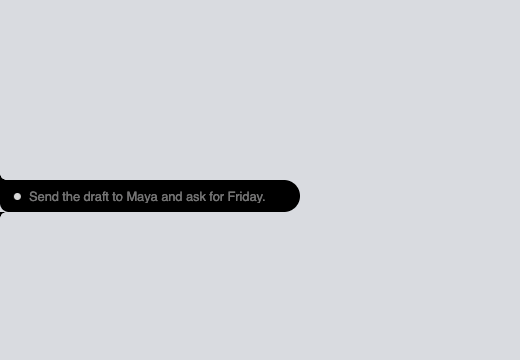
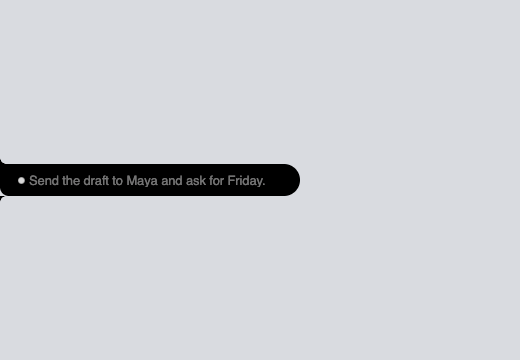
feat(bar): a side notch grows out of its edge, centred on its tab

Changed region(s): [[0.0, 0.4278, 0.5846, 0.6111]]

diff --git a/src/lib/steadyFrame.ts b/src/lib/steadyFrame.ts
@@ -83,6 +83,12 @@ export interface SteadyLayout {
   anchorX: WindowAnchorX;
   /** Content grows up from the anchor's bottom edge instead of down from its top. */
   growUp: boolean;
+  /**
+   * Content is centred on the anchor's middle row and grows both ways. Only
+   * the Notch on a side edge: it grows straight out of the edge, centred on
+   * its tab, the way a panel opened from that edge would. `growUp` is false.
+   */
+  centerY: boolean;
 }
 
 /**
@@ -110,7 +116,10 @@ export function steadyLayout(
 ): SteadyLayout {
   const slot = { fx: well.fx, fy: well.fy };
   const anchorX = dockAnchorX(slot);
-  const growUp = dockGrowsUp(slot);
+  // A flush well on a side edge (not a corner, not the top or bottom) grows
+  // out of the edge centred on itself; everything else keeps its row.
+  const centerY = spec.wells === "notch" && well.fy > 0 && well.fy < 1;
+  const growUp = !centerY && dockGrowsUp(slot);
   // The well is sized for the resting footprint. Every grid well is
   // `spec.rest`; the Notch's differ per well (a wide notch, small corners).
   const rw = well.width || spec.rest.width;
@@ -119,11 +128,11 @@ export function steadyLayout(
   // otherwise be uneven: a centre column then sits on a whole pixel, and so
   // does every edge that grows symmetrically around it.
   const W = spec.max.width + ((spec.max.width - rw) % 2);
-  const H = spec.max.height;
+  const H = spec.max.height + (centerY ? (spec.max.height - rh) % 2 : 0);
 
   // Ideal offset of the resting footprint inside the window.
   const idealX = anchorX === "start" ? 0 : anchorX === "end" ? W - rw : Math.floor((W - rw) / 2);
-  const idealY = growUp ? H - rh : 0;
+  const idealY = centerY ? Math.floor((H - rh) / 2) : growUp ? H - rh : 0;
 
   // The window's ideal top-left, then clamped inside the inset area: the
   // display's real work area, so the top edge sits under this display's own
@@ -152,6 +161,7 @@ export function steadyLayout(
     anchor: { x: ax, y: ay, width: rw, height: rh },
     anchorX,
     growUp,
+    centerY,
   };
 }
 
@@ -215,14 +225,19 @@ export function contentRect(layout: SteadyLayout, size: Size): Rect {
       : layout.anchorX === "end"
         ? anchor.x + anchor.width - size.width
         : anchor.x + anchor.width / 2 - size.width / 2;
-  const y = layout.growUp ? anchor.y + anchor.height - size.height : anchor.y;
+  const y = layout.centerY
+    ? anchor.y + anchor.height / 2 - size.height / 2
+    : layout.growUp
+      ? anchor.y + anchor.height - size.height
+      : anchor.y;
   return { x, y, width: size.width, height: size.height };
 }
 
 /**
  * CSS placement for the content block: the docked edges as absolute offsets,
  * so the browser holds those edges still while width and height animate.
- * A centred column is pinned at its centre line with a -50% translate.
+ * A centred column is pinned at its centre line with a -50% translate, and a
+ * centred row (`centerY`) the same way vertically.
  */
 export function contentPlacement(layout: SteadyLayout): {
   left?: number;
@@ -230,6 +245,7 @@ export function contentPlacement(layout: SteadyLayout): {
   top?: number;
   bottom?: number;
   translateX: boolean;
+  translateY: boolean;
 } {
   const { anchor, size } = layout;
   const horizontal =
@@ -238,9 +254,11 @@ export function contentPlacement(layout: SteadyLayout): {
       : layout.anchorX === "end"
         ? { right: size.width - (anchor.x + anchor.width), translateX: false }
         : { left: anchor.x + anchor.width / 2, translateX: true };
-  const vertical = layout.growUp
-    ? { bottom: size.height - (anchor.y + anchor.height) }
-    : { top: anchor.y };
+  const vertical = layout.centerY
+    ? { top: anchor.y + anchor.height / 2, translateY: true }
+    : layout.growUp
+      ? { bottom: size.height - (anchor.y + anchor.height), translateY: false }
+      : { top: anchor.y, translateY: false };
   return { ...horizontal, ...vertical };
 }
 
@@ -250,6 +268,10 @@ export function contentPlacement(layout: SteadyLayout): {
  * pane) to this, so a window clamped by a small display never clips.
  */
 export function roomForContent(layout: SteadyLayout): number {
+  if (layout.centerY) {
+    const mid = layout.anchor.y + layout.anchor.height / 2;
+    return 2 * Math.min(mid, layout.size.height - mid);
+  }
   return layout.growUp
     ? layout.anchor.y + layout.anchor.height
     : layout.size.height - layout.anchor.y;
@@ -274,7 +296,7 @@ export function dockedEdges(layout: SteadyLayout, size: Size): { x: number; y: n
   const r = toScreen(layout, contentRect(layout, size));
   const x =
     layout.anchorX === "start" ? r.x : layout.anchorX === "end" ? r.x + r.width : r.x + r.width / 2;
-  const y = layout.growUp ? r.y + r.height : r.y;
+  const y = layout.centerY ? r.y + r.height / 2 : layout.growUp ? r.y + r.height : r.y;
   return { x, y };
 }
 
@@ -297,7 +319,8 @@ export function sameLayout(a: SteadyLayout | null, b: SteadyLayout | null): bool
     a.anchor.x === b.anchor.x &&
     a.anchor.y === b.anchor.y &&
     a.anchorX === b.anchorX &&
-    a.growUp === b.growUp
+    a.growUp === b.growUp &&
+    a.centerY === b.centerY
   );
 }
 
@@ -309,7 +332,8 @@ export function sameDrawing(a: SteadyLayout, b: SteadyLayout): boolean {
     a.anchor.x === b.anchor.x &&
     a.anchor.y === b.anchor.y &&
     a.anchorX === b.anchorX &&
-    a.growUp === b.growUp
+    a.growUp === b.growUp &&
+    a.centerY === b.centerY
   );
 }
 

diff --git a/src/components/bar/island/IslandBar.tsx b/src/components/bar/island/IslandBar.tsx
@@ -924,11 +924,28 @@ function NotchStage({
   const { layout, placement, form, corner, edge, strip, report } = frame;
   const shape = notchShape(form, posture, size, strip, corner, edge);
   const gap = suggestions ? 8 : 0;
-  const block = {
-    width: Math.max(shape.width, suggestions ? ISLAND_SIZES.line.width - 24 : 0),
-    height: shape.height + (suggestions ? gap + suggestionsHeight : 0),
-  };
-  const drawn = contentRect(layout, block);
+  const suggestionsWidth = ISLAND_SIZES.line.width - 24;
+  // On a side the shape grows out of the edge centred on its tab, so the
+  // suggestions hang below it without moving it; elsewhere they join the
+  // column the shape is pinned in.
+  const centred = layout.centerY;
+  const block = centred
+    ? { width: shape.width, height: shape.height }
+    : {
+        width: Math.max(shape.width, suggestions ? suggestionsWidth : 0),
+        height: shape.height + (suggestions ? gap + suggestionsHeight : 0),
+      };
+  const placed = contentRect(layout, block);
+  const hangWidth = Math.max(placed.width, suggestionsWidth);
+  const drawn =
+    centred && suggestions
+      ? {
+          x: layout.anchorX === "end" ? placed.x + placed.width - hangWidth : placed.x,
+          y: placed.y,
+          width: hangWidth,
+          height: placed.height + gap + suggestionsHeight,
+        }
+      : placed;
   useLayoutEffect(() => {
     report(drawn);
   }, [report, drawn.x, drawn.y, drawn.width, drawn.height]); // eslint-disable-line react-hooks/exhaustive-deps
@@ -948,7 +965,10 @@ function NotchStage({
           right: placement.right,
           top: placement.top,
           bottom: placement.bottom,
-          transform: placement.translateX ? "translateX(-50%)" : undefined,
+          transform:
+            [placement.translateX && "translateX(-50%)", placement.translateY && "translateY(-50%)"]
+              .filter(Boolean)
+              .join(" ") || undefined,
           // A drop into a well that draws differently swaps behind this.
           opacity: frame.hidden ? 0 : 1,
           gap,
@@ -964,7 +984,15 @@ function NotchStage({
           {children}
         </NotchShell>
         {suggestions && (
-          <div className="z-20" style={{ width: ISLAND_SIZES.line.width - 24 }}>
+          <div
+            className={cn("z-20", centred && "absolute")}
+            style={{
+              width: suggestionsWidth,
+              ...(centred
+                ? { top: `calc(100% + ${gap}px)`, [layout.anchorX === "end" ? "right" : "left"]: 0 }
+                : null),
+            }}
+          >
             {suggestions}
           </div>
         )}

diff --git a/src/lib/__tests__/notchWells.test.ts b/src/lib/__tests__/notchWells.test.ts
@@ -13,7 +13,7 @@ import {
   notchWells,
 } from "../notchWells";
 import type { MonitorRect } from "../snapWells";
-import { steadyLayout } from "../steadyFrame";
+import { contentRect, dockedEdges, steadyLayout } from "../steadyFrame";
 import { glideTarget } from "@/hooks/useBarSnapWells";
 import { NOTCH_STEADY_SPEC, notchShape, curlUnderClip, FOLD, SHOULDER } from "@/components/bar/notch/notchModel";
 import { ISLAND_SIZES } from "@/components/bar/island/islandModel";
@@ -139,6 +139,37 @@ describe("the Notch's steady frame", () => {
     });
     const br = wells.find((w) => w.fx === 1 && w.fy === 1)!;
     expect(glideTarget(br, { width: 44, height: 44 })).toEqual({ x: br.x, y: br.y });
+  });
+
+  it("grows a side notch straight out of its edge, centred on its tab", () => {
+    for (const fx of [0, 1]) {
+      const well = wells.find((w) => w.fx === fx && w.fy === 0.5)!;
+      const layout = steadyLayout(well, LAPTOP, NOTCH_STEADY_SPEC);
+      expect(layout).toMatchObject({ centerY: true, growUp: false });
+      const edge = fx === 0 ? "left" : "right";
+      const mid = well.y + well.height / 2;
+      const sizes = {
+        capsule: ISLAND_SIZES.capsule,
+        line: ISLAND_SIZES.line,
+        status: ISLAND_SIZES.status,
+        card: { width: 360, height: 320, radius: 20 },
+      };
+      for (const [posture, size] of Object.entries(sizes)) {
+        const shape = notchShape("notch", posture as keyof typeof sizes, size, 38, "top-left", edge);
+        const r = contentRect(layout, shape);
+        // The middle never moves, and the shape stays on the screen's edge.
+        expect(dockedEdges(layout, shape).y).toBe(mid);
+        expect(layout.origin.x + r.x).toBe(fx === 0 ? 0 : 1512 - shape.width);
+        expect(layout.origin.y + r.y).toBeGreaterThanOrEqual(0);
+        expect(layout.origin.y + r.y + r.height).toBeLessThanOrEqual(982);
+      }
+      // A dragged shape glides in centred on the tab, not above or below it.
+      expect(glideTarget(well, { width: 236, height: 38 }).y).toBe(Math.round(mid - 19));
+    }
+    // Every other well keeps its row.
+    for (const w of wells.filter((w) => w.fy !== 0.5)) {
+      expect(steadyLayout(w, LAPTOP, NOTCH_STEADY_SPEC).centerY).toBe(false);
+    }
   });
 });
 

diff --git a/src/hooks/useBarSnapWells.ts b/src/hooks/useBarSnapWells.ts
@@ -624,7 +624,7 @@ async function settleSteady(win: AppWindow, spec: SteadySpec, layout: SteadyLayo
 /**
  * Where the dragged footprint's top-left glides to so it meets the well on
  * the well's docked edges: flush right in a right-hand well, flush bottom in a
- * bottom one, centred in a centre column. For a grid look the footprint is the
+ * bottom one, centred in a centre column or on a side's middle. For a grid look the footprint is the
  * well's size and this is the well's own top-left; the Notch's footprint
  * changes size between its notch and its corners, and this lands the shape it
  * is carrying in the corner it is about to become.
@@ -639,7 +639,14 @@ export function glideTarget(
       : well.fx === 0.5
         ? Math.round(well.x + well.width / 2 - footprint.width / 2)
         : well.x;
-  const y = well.fy === 1 ? well.y + well.height - footprint.height : well.y;
+  // A side's middle (only the Notch's footprint differs from its well there)
+  // meets the well centred on it.
+  const y =
+    well.fy === 1
+      ? well.y + well.height - footprint.height
+      : well.fy > 0
+        ? Math.round(well.y + well.height / 2 - footprint.height / 2)
+        : well.y;
   return { x, y };
 }
 

diff --git a/src/bar-harness/AppearancePreview.tsx b/src/bar-harness/AppearancePreview.tsx
@@ -888,7 +888,7 @@ export default function AppearancePreview() {
       if (anchorX === "start") left = -stage.x * fit;
       if (anchorX === "end") left = viewport.w - (stage.x + stage.width) * fit;
       // A side's middle stays centred in the tile, as it is on the screen.
-      if (steady.layout.slot.fy !== 0.5) {
+      if (!steady.layout.centerY) {
         top = growUp ? viewport.h - (stage.y + stage.height) * fit : -stage.y * fit;
       }
     }

diff --git a/docs/plans/notch-appearance.md b/docs/plans/notch-appearance.md
@@ -31,7 +31,7 @@ Every state, word, control and timer is the Island's (`island/islandModel.ts`, `
 | Hover, line, ear, status | the Island's size, hung below the menu bar strip | the Island's size, growing straight out of the edge | the Island's size on the black, fold strip on the inner side |
 | Card | the Island's card, below the strip | the card, out of the edge | the card, anchored to the corner, inner corner folded 22pt |
 
-Every notch has the hardware's concave shoulders where it meets its edge and round far corners. A side notch at mid-height grows upward from its resting tab, as every look docked in the lower half does.
+Every notch has the hardware's concave shoulders where it meets its edge and round far corners. A side notch grows straight out of its edge, centred on its resting tab: the tab's middle never moves, so it opens the way a panel pulled from that edge would, and it has room both ways for a bigger panel (a floating chat) later. Its skill suggestions hang below it without moving it. Every other well keeps its row (`SteadyLayout.centerY` is the Notch's side wells only).
 
 Top corners cover the menu bar strip first, as the notch does, so words never sit under the clock or the Apple menu. Bottom corners start at the screen edge.
 
